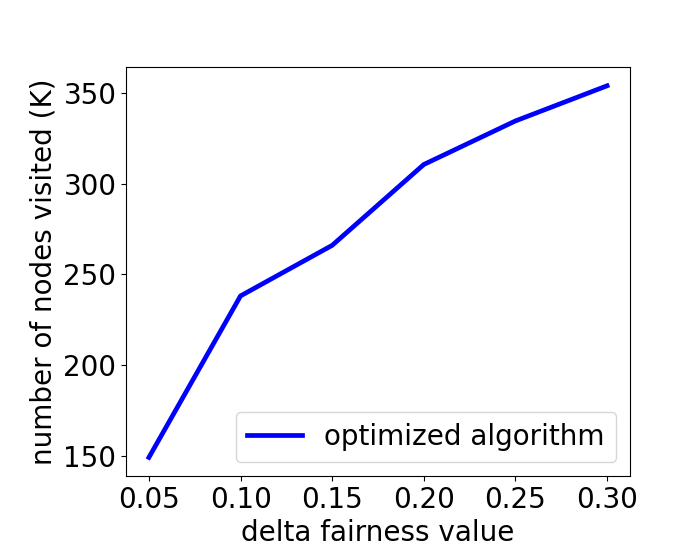
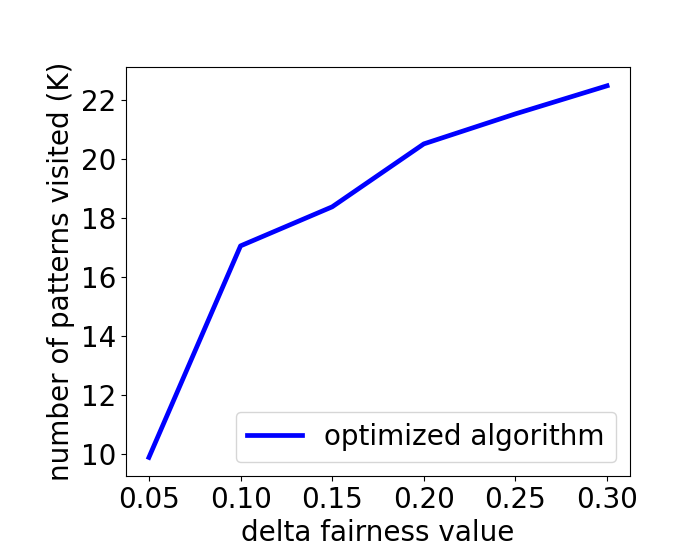
general, adult tha

diff --git a/Coding/Experiments/General_FP/AdultData/Tha_1_20210629.py b/Coding/Experiments/General_FP/AdultData/Tha_1_20210629.py
@@ -43,8 +43,7 @@ def thousands_formatter(x, pos):
 
 
 
-selected_attributes = ['age', 'education', 'marital-status', 'race', 'gender', 'workclass', 'relationship',
-                       'occupation', 'educational-num', 'capital-gain']
+selected_attributes = ['age', 'education', 'marital-status', 'race', 'gender', 'workclass', 'relationship']
 diff_acc = [0.05, 0.1, 0.15, 0.2, 0.25, 0.3]
 
 original_data_file = "../../../../InputData/AdultDataset/ForClassification/CleanAdult_numerical_testdata_cat.csv"
@@ -140,7 +139,7 @@ for n in range(len(diff_acc)):
 plt.plot(diff_acc, execution_time, label="optimized algorithm", color='blue', linewidth = 3.4)
 
 
-plt.xlabel('threshold of accuracy')
+plt.xlabel('delta fairness value')
 plt.ylabel('execution time (s)')
 plt.xticks(diff_acc)
 plt.subplots_adjust(bottom=0.15, left=0.18)
@@ -153,7 +152,7 @@ fig, ax = plt.subplots()
 plt.plot(diff_acc, num_calculations, label="optimized algorithm", color='blue', linewidth = 3.4)
 
 plt.xlabel('delta fairness value')
-plt.ylabel('number of nodes visited (K)')
+plt.ylabel('number of patterns visited (K)')
 ax.yaxis.set_major_formatter(FuncFormatter(thousands_formatter))
 
 

diff --git a/Coding/Experiments/General_FP/AdultData/Tha_0_20210521.py b/Coding/Experiments/General_FP/AdultData/Tha_0_20210521.py
@@ -124,7 +124,7 @@ for n in range(len(diff_acc)):
 plt.plot(diff_acc, execution_time, label="optimized algorithm", color='blue', linewidth = 3.4)
 
 
-plt.xlabel('threshold of accuracy')
+plt.xlabel('delta fairness value')
 plt.ylabel('execution time (s)')
 plt.xticks(diff_acc)
 plt.subplots_adjust(bottom=0.15, left=0.18)
@@ -137,7 +137,7 @@ fig, ax = plt.subplots()
 plt.plot(diff_acc, num_calculations, label="optimized algorithm", color='blue', linewidth = 3.4)
 
 plt.xlabel('delta fairness value')
-plt.ylabel('number of nodes visited (K)')
+plt.ylabel('number of patterns visited (K)')
 ax.yaxis.set_major_formatter(FuncFormatter(thousands_formatter))
 
 
